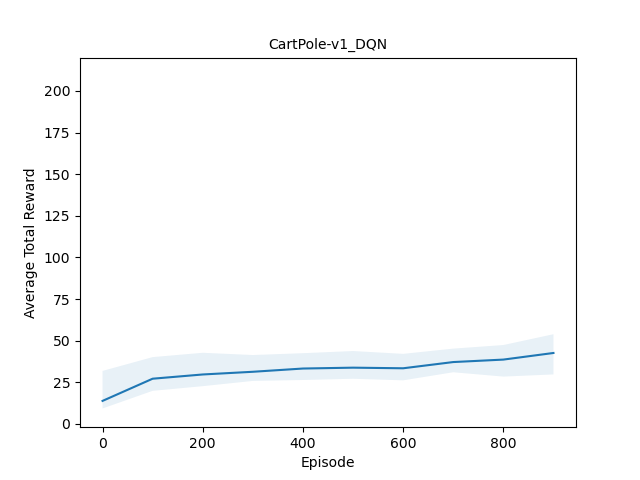
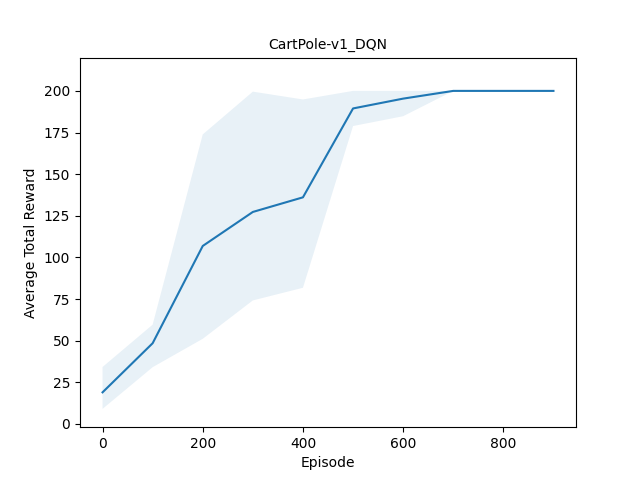
DQN implemented and questions answered

diff --git a/F25HW2/dqn.py b/F25HW2/dqn.py
@@ -31,7 +31,7 @@ class ReplayMemory():
     def sample_batch(self):
         # randomly chooses from the collections.deque
         # BEGIN STUDENT SOLUTION
-        batch = [random.choice(self.queue) for _ in range(self.batch_size)]
+        batch = random.sample(self.queue, self.batch_size)
         # END STUDENT SOLUTION
         return batch
 
@@ -70,7 +70,7 @@ class DeepQNetwork(nn.Module):
             # BEGIN STUDENT SOLUTION
             nn.Linear(hidden_layer_size, hidden_layer_size), # Q values can be negative, use just linear layer
             nn.ReLU(),
-            nn.Linear (hidden_layer_size, action_size)
+            nn.Linear(hidden_layer_size, self.action_size)
             # END STUDENT SOLUTION
         )
 
@@ -79,11 +79,12 @@ class DeepQNetwork(nn.Module):
         self.q_net = q_net_init()
         self.target_net = q_net_init()
 
-        self.buffer = ReplayMemory(replay_buffer_size, replay_buffer_batch_size)
-
-        self.optimizer_q = optim.Adam(self.q_net.parameters(), lr=lr_q_net)
-        self.optimizer_target_q = optim.Adam(self.target_net.parameters(), lr=lr_q_net)
         self.q_net.to(device)
+        self.target_net.to(device)
+
+        self.buffer = ReplayMemory(replay_buffer_size, replay_buffer_batch_size)
+        self.optimizer_q = optim.Adam(self.q_net.parameters(), lr=lr_q_net)
+       
         
         # END STUDENT SOLUTION
 
@@ -137,16 +138,24 @@ class DeepQNetwork(nn.Module):
         num_steps = len(rewards)
 
         # Note for each state this gets us the Q value for every possible action
-        q_values, target_values = self.forward(states_tensor, new_states_tensor)
+        q_values, target_values = self.forward(states_tensor, new_states_tensor) # The second output is from a "Target" network
         
-        # For the target values, we just want the max Q value. This is comptued for the "new states"
-        max_targets = torch.max(target_values, dim=-1)[0] # index [0] to get values not indicies
-        yi = rewards_tensor + self.gamma * max_targets * (1 - terminated)
-        
+        if self.double_dqn:
+            
+            best_action = torch.argmax(q_values, dim=-1) # use our online network to predict best actions
+            eval_actions = target_values.gather(1, best_action.unsqueeze(1)).squeeze(1)
+            
+            yi = rewards_tensor + self.gamma * eval_actions * (1 - terminated)
+
+        else:
+            # For the target values, we just want the max Q value. This is comptued for the "new states"
+            max_targets = torch.max(target_values, dim=-1)[0] # index [0] to get values not indicies
+            yi = rewards_tensor + self.gamma * max_targets * (1 - terminated)
+            
         # Remember the Q value we care about is for the associated actions we took
         relevant_q_values = q_values.gather(1, actions_tensor.unsqueeze(1)).squeeze(1) # Just get the q values for the actions we actually took
         loss = F.mse_loss(relevant_q_values, yi)
-
+        
         # back prop
         self.optimizer_q.zero_grad()
         loss.backward()
@@ -211,15 +220,20 @@ class DeepQNetwork(nn.Module):
 
         # Collect a bunch of experience
         for ep in range(num_episodes):
-         
+            
+            # Establish if we should test this episode 
             test_trial = ep % test_every == 0
 
-            # Evaluate if necessary
+            # Test if necessary
             if test_trial:
                 eval_episodes = 20 # Per hw
                 mean_undiscounted_return = self.test_curr_policy(env, eval_episodes, max_steps)
                 print(f"Trial {ep // test_every} | Reward {mean_undiscounted_return}")
                 total_rewards.append(mean_undiscounted_return)
+
+            # Update target network periodically
+            if ep % self.target_update == 0:
+                self.target_net.load_state_dict(self.q_net.state_dict())
 
             # Collect more trainsitions/steps and train our policy
             state, _ = env.reset()
@@ -311,7 +325,7 @@ def main():
     double_dqn = args.double_dqn
     
     device = torch.device('cuda' if torch.cuda.is_available() else 'cpu')
-    
+    print(device)
     D = [] # matrix of results
 
     for run_idx in range(num_runs):
@@ -337,8 +351,9 @@ def main():
         env.close()
 
     # Graph results using D
+    name = f"{env_name}_DDQN" if double_dqn else f"{env_name}_DQN"
     graph_agents(
-        graph_name=f"{env_name}_DQN",
+        graph_name=name,
         mean_undiscounted_returns=D,  
         test_frequency=test_frequency,
         max_steps=max_steps,
@@ -350,6 +365,6 @@ def main():
 
 
 
-if '__main__' == __name__:
+if __name__ == '__main__':
     main()
 

diff --git a/F25HW2/main.tex b/F25HW2/main.tex
@@ -94,13 +94,13 @@ Enter your team's names and Andrew IDs in the boxes below.  If you do not do thi
 Name 1: \begin{tcolorbox}[fit,height=1cm, width=5cm, blank, borderline={1pt}{1pt},nobeforeafter]
     \begin{center}
     \vspace{3mm}
-    \large{}
+    \large{Mike Anoruo}
     \end{center}
 \end{tcolorbox}
 Andrew ID 1: \begin{tcolorbox}[fit,height=1cm, width=5cm, blank, borderline={1pt}{1pt},nobeforeafter]
     \begin{center}
     \vspace{3mm}
-    \large{}
+    \large{manoruo}
     \end{center}
 \end{tcolorbox}
     \\
@@ -153,11 +153,13 @@ Andrew ID 3: \begin{tcolorbox}[fit,height=1cm, width=5cm, blank, borderline={1pt
 \subsection*{2.2 DQN vs. Policy Gradient Algorithms (5 pts)}
 \begin{solution}[height=8cm]
 % YOUR SOLUTION
+The Double DQN outperforms the policy gradient algorithm we wrote in Assignment 1 because it benefits from stable and efficient value-based learning, utilizing experience replay and target networks. Policy gradient methods directly optimize the policy but suffer from high variance in gradient estimates and typically require more samples, making them slower to converge. Double DQN’s use of a target network and decoupling action selection and evaluation mitigates overestimation bias, further improving learning stability and performance.
 \end{solution}
 
 \subsection*{2.3 Pros and Cons of Policy gradient methods (6 pts)}
 \begin{solution}[height=8cm]
 % YOUR SOLUTION
+Policy gradient methods like N-step A2C are better for continuous or high-dimensional action spaces where modeling a stochastic policy is advantageous. DQN is preferable for discrete action spaces. 
 \end{solution}
 
 \clearpage
@@ -165,10 +167,14 @@ Andrew ID 3: \begin{tcolorbox}[fit,height=1cm, width=5cm, blank, borderline={1pt
 
 \textbf{Feedback}: You can help the course staff improve the course for future semesters by providing feedback. You will receive a point of you provide actionable feedback. What was the most confusing part of this homework, and what would have made it less confusing?
 \begin{solution}[height=4cm]
+
+The graph\_agents function was somewhat harder to follow, making it difficult to understand how to implement correctly. The style used in Homework 1 was much easier to follow. I think bringing this over to Hw2 may be beneficial.
+
 \end{solution}
 
 \textbf{Collaboration}: Detail the work division amongst your group below.
 \begin{solution}[height=4cm]
+Worked on this Solo.
 \end{solution}
 
 \noindent\textbf{Time Spent}: How many hours did you spend working on this assignment? Your answer will not affect your grade. Please average your answer over all the members of your team.
@@ -176,7 +182,7 @@ Andrew ID 3: \begin{tcolorbox}[fit,height=1cm, width=5cm, blank, borderline={1pt
 \begin{table}[H]
     \centering
     \begin{tabular}{r|c}
-        Alone &  \hspace{3em} %ANSWER HERE%
+        Alone &  \hspace{3em} 8 %ANSWER HERE%
         \\ \hline
         With teammates & \hspace{3em} %ANSWER HERE%
         \\ \hline
